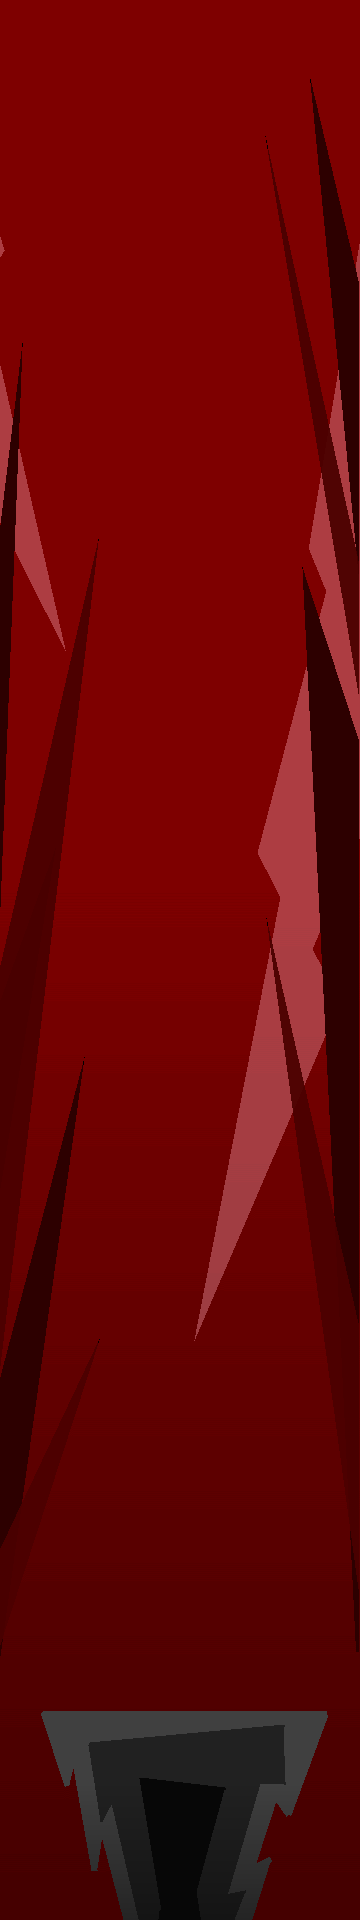
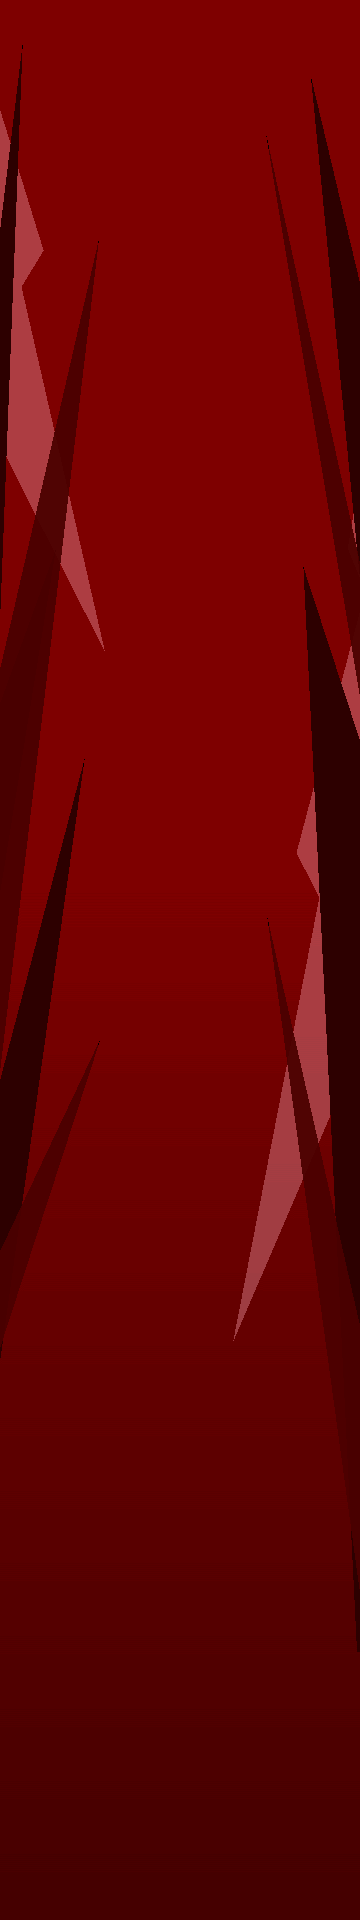
опасности перенесены в локации

diff --git a/hatjumper/GameObjects/Dangers.cs b/hatjumper/GameObjects/Dangers.cs
@@ -1,7 +1,6 @@
 using Microsoft.Xna.Framework;
 using Microsoft.Xna.Framework.Graphics;
 
-using System;
 using System.Collections.Generic;
 
 namespace hatjumper
@@ -19,7 +18,7 @@ namespace hatjumper
             }
         }
 
-        public static Dangers Pop(Vector2 position, Vector2 scales, GameScene scene, float maxY, Texture2D dangersSprite)
+        public static Dangers Pop(Vector2 position, Vector2 scales, GameScene scene, float maxY, Texture2D dangersSprite, Location location)
         {
             Dangers dangers;
 
@@ -30,10 +29,13 @@ namespace hatjumper
                 dangers.scales = scales;
                 dangers.scene = scene;
                 dangers.maxY = maxY;
-                dangers.dangersSprite = dangersSprite;
+                dangers.defaultSprite = dangersSprite;
+                dangers.loaction = location;
+                dangers.ySpeed = Dangers.minYSpeed;
+                dangers.active = true;
             } else
             {
-                dangers = new Dangers(position, scales, scene, maxY, dangersSprite);
+                dangers = new Dangers(position, scales, scene, maxY, dangersSprite, location);
             }
             return dangers;
         }
@@ -43,36 +45,35 @@ namespace hatjumper
     {
         public float maxY = 0;
         public float ySpeed;
+        public static float minYSpeed = 500;
 
-        bool active;
+        public bool active;
+        public Location loaction;
 
-        public Texture2D dangersSprite;
-
-        public Dangers(Vector2 position, Vector2 scales, GameScene scene, float maxY, Texture2D dangersSprite): base(position, scales, scene)
+        public Dangers(Vector2 position, Vector2 scales, GameScene scene, float maxY, Texture2D dangersSprite, Location location): base(position, scales, scene, dangersSprite)
         {
-            ySpeed = 500;
+            ySpeed = minYSpeed;
             active = true;
             this.position = position;
             this.scales = scales;
             this.maxY = maxY;
-            this.dangersSprite = dangersSprite;
+            this.loaction = location;
         }
 
         public override void Update(float deltaTime)
         {
             base.Update(deltaTime);
-
             // Пределать на глобальную пременную гравитации
             ySpeed += 50;
             position.Y += ySpeed * deltaTime;
 
-            if (active && position.Y >= 1000)
+            if (active && position.Y + scales.Y >= loaction.platform.position.Y)
             {
-                ySpeed *= (float)(-0.2);
+                ySpeed *= -GlobalVars.kenetic;
                 active = false;
             }
 
-            if (position.Y >= maxY + 100)
+            if (position.Y >= loaction.platform.position.Y)
             {
                 Delete();
             }
@@ -80,12 +81,9 @@ namespace hatjumper
 
         public override void Delete()
         {
-
+            DangersStack.Push(this);
+            loaction.gameObjects.Remove(this);
         }
 
-        public override Texture2D GetSprite()
-        {
-            return dangersSprite;
-        }
     }
 }

diff --git a/hatjumper/GameObjects/Location.cs b/hatjumper/GameObjects/Location.cs
@@ -1,6 +1,8 @@
 using Microsoft.Xna.Framework;
 using Microsoft.Xna.Framework.Graphics;
 using System;
+using System.Collections.Generic;
+
 namespace hatjumper
 {
     class Location: GameObject
@@ -8,16 +10,22 @@ namespace hatjumper
         private Vector2 dangersStartPosition => GetDangersStartPosition();
         private Vector2 dangerScales => GetDangerScales();
 
-        public Texture2D bacgroundSprite, dangersSprite;
+        public Texture2D dangersSprite;
 
-        public Location(Vector2 position, Vector2 scales, GameScene scene): base(position, scales, scene)
+        public List<GameObject> gameObjects = new List<GameObject>();
+        public GameObject platform;
+
+        public static float platformPart = 1f/9;
+
+        public Location(Vector2 position, Vector2 scales, GameScene scene, Texture2D bgSprite, Texture2D dangersSprite, Texture2D platformSprite): base(position, scales, scene, bgSprite)
         {
-
+            this.dangersSprite = dangersSprite;
+            this.platform = new GameObject(new Vector2(position.X, position.Y + (1 - platformPart) * scales.Y), new Vector2(scales.X, platformPart * scales.Y), scene, platformSprite);
         }
 
-        public Dangers GetDangers()
+        public void Attack()
         {
-            return DangersStack.Pop(dangersStartPosition, dangerScales, scene, scales.Y, dangersSprite);
+            gameObjects.Add(DangersStack.Pop(dangersStartPosition, dangerScales, scene, scales.Y, dangersSprite, this));
         }
 
         private Vector2 GetDangerScales()
@@ -27,13 +35,29 @@ namespace hatjumper
 
         private Vector2 GetDangersStartPosition()
         {
-            Console.WriteLine("{0}, {1}, {2}, {3}", position.X, (scales.X / 2), (dangerScales.X / 2), position.X + (scales.X / 2) - (dangerScales.X / 2));
             return new Vector2(position.X + (scales.X/2) - (dangerScales.X/2), position.Y - dangerScales.Y);
         }
 
-        public override Texture2D GetSprite()
+        public override void Draw(SpriteBatch spriteBatch)
         {
-            return bacgroundSprite;
+            base.Draw(spriteBatch);
+
+            foreach (GameObject go in gameObjects)
+            {
+                go.Draw(spriteBatch);
+            }
+
+            platform.Draw(spriteBatch);
+        }
+
+        public override void Update(float deltaTime)
+        {
+            base.Update(deltaTime);
+            List<GameObject> gameObjectsCopy = new List<GameObject>(gameObjects);
+            foreach (var go in gameObjectsCopy)
+            {
+                go.Update(deltaTime);
+            }
         }
     }
 }

diff --git a/hatjumper/LocationController.cs b/hatjumper/LocationController.cs
@@ -17,6 +17,7 @@ namespace hatjumper
 
         public static String locationBGBaseName = "-world";
         public static String locationDangersBaseName = "-dangers";
+        public static String locationPlatformBaseName = "-platform";
 
         public LocationController(Game game, GameScene scene)
         {
@@ -43,17 +44,21 @@ namespace hatjumper
                 string type = unusedTypes[idx];
                 unusedTypes.RemoveAt(idx);
 
-                Location location = new Location(new Vector2(i * screenScales.X / count, 0), new Vector2(screenScales.X / count, screenScales.Y), scene);
-                location.bacgroundSprite = game.Content.Load<Texture2D>(type+locationBGBaseName);
-                location.dangersSprite = game.Content.Load<Texture2D>(type+locationDangersBaseName);
+                Location location = new Location(
+                        new Vector2(i * screenScales.X / count, 0),
+                        new Vector2(screenScales.X / count, screenScales.Y),
+                        scene,
+                        game.Content.Load<Texture2D>(type + locationBGBaseName),
+                        game.Content.Load<Texture2D>(type + locationDangersBaseName),
+                        game.Content.Load<Texture2D>(type + locationPlatformBaseName)
+                    );
 
                 locations.Add(location);
             }
         }
 
-        public List<GameObject> getDangersList()
+        public void Attack()
         {
-            var res = new List<GameObject>();
             Random r = new Random();
 
             var used = new HashSet<int>();
@@ -62,12 +67,10 @@ namespace hatjumper
                 int idx = r.Next(locations.Count);
                 if (!used.Contains(idx))
                 {
-                    res.Add(locations[idx].GetDangers());
+                    locations[idx].Attack();
                     used.Add(idx);
                 }
             }
-
-            return res;
         }
     }
 }

diff --git a/hatjumper/Scenes/MainScene.cs b/hatjumper/Scenes/MainScene.cs
@@ -13,22 +13,25 @@ namespace hatjumper
         public float sinceLastAttack = 0;
         public float timeBetweenAttacks = 1;
 
+        public float floorPart = 1 / 9;
+        public float floorH;
+        public float floorY;
+
         public MainScene() : base()
         {
             locationController = new LocationController(game, this);
+            floorH = screenScales.Y * floorPart;
+            floorY = screenScales.Y - floorH;
         }
 
         public override void OnBeforeDraw(GraphicsDeviceManager graphics, SpriteBatch spriteBatch, GameTime gameTime)
         {
-            foreach (var location in locationController.locations)
-            {
-                spriteBatch.Draw(location.sprite, location.DisplayRectangle, Color.White);
-            }
         }
 
         public override void Load()
         {
             locationController.generateLocations(locationCount);
+            gameObjects.AddRange(locationController.locations);
         }
 
         public override void Update(float deltaTime)
@@ -45,7 +48,8 @@ namespace hatjumper
 
         void Attack()
         {
-            gameObjects.AddRange(locationController.getDangersList());
+            locationController.Attack();
         }
+
     }
 }

diff --git a/hatjumper/core/GameObject.cs b/hatjumper/core/GameObject.cs
@@ -9,17 +9,20 @@ namespace hatjumper
     {
         public Vector2 position, scales;
         public Rectangle DisplayRectangle => new Rectangle((int)position.X, (int)position.Y, (int)scales.X, (int)scales.Y);
+
+        public Texture2D defaultSprite = null;
         public Texture2D sprite => GetSprite();
 
         public GameScene scene;
 
         public GameObject() { }
 
-        public GameObject(Vector2 position, Vector2 scales, GameScene scene)
+        public GameObject(Vector2 position, Vector2 scales, GameScene scene, Texture2D defaultSprite)
         {
             this.position = position;
             this.scales = scales;
             this.scene = scene;
+            this.defaultSprite = defaultSprite;
         }
 
         public bool Contains(Vector2 vector2)
@@ -36,6 +39,14 @@ namespace hatjumper
 
         public virtual void Update(float deltaTime) { }
 
-        public virtual Texture2D GetSprite() { return null; }
+        public virtual Texture2D GetSprite()
+        {
+            return defaultSprite;
+        }
+
+        public virtual void Draw(SpriteBatch spriteBatch)
+        {
+            spriteBatch.Draw(sprite, DisplayRectangle, Color.White);
+        }
     }
 }

diff --git a/hatjumper/core/Button.cs b/hatjumper/core/Button.cs
@@ -12,8 +12,7 @@ namespace hatjumper
         public delegate bool EnabledDel();
         public EnabledDel enabledDel;
         public bool IsEnabled => (enabledDel == null) || enabledDel.Invoke();
-
-        public Texture2D enabledSprite;
+        
         public Texture2D disabledSprite;
 
 
@@ -27,13 +26,12 @@ namespace hatjumper
 
         public override Texture2D GetSprite()
         {
-            return IsEnabled ? enabledSprite : disabledSprite;
+            return IsEnabled ? defaultSprite : disabledSprite;
         }
 
-        public Button(Vector2 position, Vector2 scales, GameScene scene, Texture2D enabledSprite, Action action): base(position, scales, scene)
+        public Button(Vector2 position, Vector2 scales, GameScene scene, Texture2D enabledSprite, Action action): base(position, scales, scene, enabledSprite)
         {
             this.action = action;
-            this.enabledSprite = enabledSprite;
             this.enabledDel = IsEnabledGet;
         }
 

diff --git a/hatjumper/core/GameScene.cs b/hatjumper/core/GameScene.cs
@@ -36,6 +36,14 @@ namespace hatjumper
 
         }
 
+        public virtual void OnDraw(GraphicsDeviceManager graphics, SpriteBatch spriteBatch, GameTime gameTime)
+        {
+            foreach (var go in gameObjects)
+            {
+                go.Draw(spriteBatch);
+            }
+        }
+
         public virtual void OnAfterDraw(GraphicsDeviceManager graphics, SpriteBatch spriteBatch, GameTime gameTime)
         {
 
@@ -46,12 +54,7 @@ namespace hatjumper
             spriteBatch.Begin();
 
             OnBeforeDraw(graphics, spriteBatch, gameTime);
-
-            foreach (var go in gameObjects)
-            {
-                spriteBatch.Draw(go.sprite, go.DisplayRectangle, Color.White); 
-            }
-
+            OnDraw(graphics, spriteBatch, gameTime);
             OnAfterDraw(graphics, spriteBatch, gameTime);
 
             spriteBatch.End();

diff --git a/hatjumper/GameObjects/Cloud.cs b/hatjumper/GameObjects/Cloud.cs
@@ -10,12 +10,9 @@ namespace hatjumper
         public float maxX = 0;
         public float xSpeed = 1;
 
-        public Texture2D cloudSprite;
-
-        public Cloud(Vector2 position, Vector2 scales, GameScene scene, float maxX, Texture2D cloudSprite): base(position, scales, scene)
+        public Cloud(Vector2 position, Vector2 scales, GameScene scene, float maxX, Texture2D cloudSprite): base(position, scales, scene, cloudSprite)
         {
             this.maxX = maxX;
-            this.cloudSprite = cloudSprite;
 
             Random r = new Random();
             this.xSpeed = r.Next(50, 100);
@@ -30,11 +27,6 @@ namespace hatjumper
             {
                 position.X = maxX + 100;
             }
-        }
-
-        public override Texture2D GetSprite()
-        {
-            return cloudSprite;
         }
     }
 }

diff --git a/hatjumper/GlobalVars.cs b/hatjumper/GlobalVars.cs
@@ -1,0 +1,9 @@
+namespace hatjumper
+{
+    class GlobalVars
+    {
+        public static float gravity = 9.8F;
+
+        public static float kenetic = 0.3F;
+    }
+}
